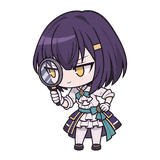
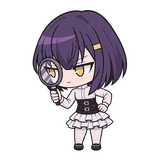
fix(art): 재조사 그웬 — 코트 자락·허리띠 제거, 검은 코르셋

diff --git a/tools/gwen_art/README.md b/tools/gwen_art/README.md
@@ -2,13 +2,13 @@
 
 ## 재조사 사무실용 — 코트 벗은 SD 3종
 
-2026-11-23 내장 image_gen으로 `recon_look`(왼쪽 돋보기 관찰), `recon_pin`(왼쪽 위 사진 고정), `recon_nod`(팔짱·자신만만한 끄덕임) 정지 자세를 만들었음. 기존 investigate·files·report·ready 512px 그림을 직접 참조했음. 군복 코트만 벗고 흰 블라우스의 긴소매를 팔꿈치까지 걷었으며 청록 리본·금색 머리핀·남색 단발·금색 눈·기존 치마·스타킹·신발·장갑을 유지했음. 전연령·문자 없음·실제 투명 RGBA임.
+2026-11-23 내장 image_gen으로 `recon_look`(왼쪽 돋보기 관찰), `recon_pin`(왼쪽 위 사진 고정), `recon_nod`(팔짱·자신만만한 끄덕임) 정지 자세를 만들었음. PM 검수에 따라 세 원본을 국소 편집해 치마 옆·뒤의 파란 코트 자락과 금색/검은 줄, 청록 허리띠·큰 리본, 가슴 타이·자보를 제거했음. 장식 없는 흰 스탠드 칼라·손목 커프스가 있는 긴소매·맨손·흰 프릴 치마에, 은색 사각 버클 가로 벨트 두 줄이 달린 무광 검은 언더버스트 코르셋을 맞췄음. 얼굴·머리·자세·소품·스타킹·신발은 유지했음. 전연령·문자 없음·실제 투명 RGBA임.
 
-생성은 look 2회(시선 방향 보정 1회), pin·nod 각 1회로 총 4회였음. 원본은 모두 **1254×1254**, 확대 없이 저장소 밖 `recon/gwen/`에 보관했음. 전체 호출 프롬프트·참조·선정 결과는 [prompts_recon.json](prompts_recon.json)에 있음.
+최초 생성은 look 2회(시선 방향 보정 1회), pin·nod 각 1회로 총 4회였음. 이번 국소 편집은 각 1회, 총 3회·재시도 0회임. 이전 원본은 저장소 밖 `recon/gwen/recon_*_v1.png`, 수정본은 같은 폴더의 `recon_*.png`에 확대 없이 보관했음. 전체 호출 프롬프트·참조·선정 결과와 수정 이력은 [prompts_recon.json](prompts_recon.json)에 있음.
 
 `python -B -X utf8 tools/gwen_art/build_recon.py --import-dir <원본 PNG 폴더>`로 최초 가져오고, 이후에는 옵션 없이 커밋된 512px 파일에서 재현함. ready와 같은 알파 정리(10 미만 0·245 초과 255), 가장자리 중간 알파 보존, 450px 이내 축소·512px 캔버스·발끝 y482·192색 본체/64색 가장자리 팔레트를 썼음. 160px PNG는 기존 정지본 방식으로 색을 줄이고 알파를 보존했음.
 
-출력은 `assets/ui_icons/gwen/recon_look_512.png`·`recon_look.png`, `recon_pin_512.png`·`recon_pin.png`, `recon_nod_512.png`·`recon_nod.png` 6개임. 각각 512×512와 160×160, 합계 257,023바이트(160px 3개 58,643바이트)이며 파일당 80,000바이트 안에 있음. 빌더에서 크기·투명도·가장자리·여백·기존 전체 용량 한도를 검사함. **화면 연결·애니메이션은 추가하지 않았음.**
+출력은 `assets/ui_icons/gwen/recon_look_512.png`·`recon_look.png`, `recon_pin_512.png`·`recon_pin.png`, `recon_nod_512.png`·`recon_nod.png` 6개임. 각각 512×512와 160×160, 합계 242,826바이트(160px 3개 51,655바이트)이며 파일당 80,000바이트 안에 있음. 빌더에서 크기·투명도·가장자리·여백·기존 전체 용량 한도를 검사함. **화면 연결·애니메이션은 추가하지 않았음.**
 
 보관 폴더의 `recon/with_gwen_office.png`는 사무실 위에 각 동작을 한 번씩 얹은 3행 정지 합성임. `recon/gwen/alpha_style_review.png`에서 기존 investigate와 같은 크기의 선·색·비율, 체커보드 알파와 어두운 배경의 실제 160px 정지본을 검수했음.
 

diff --git a/docs/HISTORY.md b/docs/HISTORY.md
@@ -1,3 +1,10 @@
+## 2026-11-23 — 재조사 그웬 코트 자락·허리띠 제거, 검은 코르셋
+
+- `recon_look`·`recon_pin`·`recon_nod`를 내장 image_gen으로 각 1회 국소 편집했음(총 3회·재시도 0회). 흰 치마 옆·뒤의 파란 코트 자락과 금색/검은 줄, 청록 허리띠·큰 리본·가슴 타이·흰 자보를 제거했음. 장식 없는 흰 스탠드 칼라·손목까지 오는 긴소매·맨손과 은색 사각 버클 가로 벨트 두 줄의 무광 검은 언더버스트 코르셋으로 고쳤음.
+- 얼굴·머리·자세·소품·스타킹·신발·투명 배경을 유지했음. 저장소 밖 `recon/gwen/`의 이전 원본은 `recon_*_v1.png`로 보존했고, 수정 원본도 1254×1254 그대로 보관했음. `build_recon.py`로 512px·160px PNG 6개를 갱신했으며 사무실 3행 합성·알파 비교 시트를 다시 검수했음.
+- 전체 편집 프롬프트·이전/현재 해시·호출 수는 `tools/gwen_art/prompts_recon.json`에 추가했음. 빌더의 크기·알파·여백·용량 검사, 6파일 재빌드 바이트 일치, 프롬프트의 로컬 절대 경로 부재를 확인했음.
+- 강제 탐색·그웬 검사 16개를 순차 실행해 모두 통과했음. 처음 전체 검사와 부분 검사를 겹쳐 실행해 기존 아트 재빌드가 간섭했으며, 실패한 아트 항목은 위 순차 실행에서 모두 통과했음. 검사 후 이번 수정 외 기존 아트의 변경이 없음을 확인했음.
+
 ## 2026-11-23 — 강제 탐색 배경: 등신대 그웬 결·중경 원근
 
 - SD 배경 기준을 등신대 뒷모습 그웬으로 바꿔 내장 image_gen 1회로 다시 만들었음. 선·명암·그라데이션 하늘·고리 발광을 맞추고 의자·책상·곰인형을 작게, 안쪽으로 보냈음. 직전 원본은 `lavistar_ruin_bg_v3.png`로 보존했음.

diff --git a/HANDOFF.md b/HANDOFF.md
@@ -4,7 +4,7 @@
 
 ## 현재 상태
 
-- **재조사용 SD 그웬 준비**: 코트 벗은 흰 블라우스 차림의 `recon_look`·`recon_pin`·`recon_nod`를 512px PNG·160px 정지본 6개로 만들었음. 배경 합성·알파를 검수했고 화면 연결은 하지 않았음. 재현 빌더·전체 프롬프트·용량은 `tools/gwen_art/README.md`의 재조사 절을 참조함.
+- **재조사용 SD 그웬 준비**: `recon_look`·`recon_pin`·`recon_nod`의 코트 자락·청록 띠/리본·타이/자보를 제거하고, 흰 스탠드 칼라·긴소매·맨손·은색 사각 버클 두 줄의 검은 언더버스트 코르셋으로 고쳤음. 512px PNG·160px 정지본 6개의 배경 합성·알파를 검수했고 화면 연결은 하지 않았음. 재현 빌더·전체 프롬프트·용량은 `tools/gwen_art/README.md`의 재조사 절을 참조함.
 
 - **재조사 배경 준비**: PM 검수에 따라 그웬 SD 화풍의 셀 선화로 바꾸고 장식·광택을 줄였음. 단일 스탠드 광원·회수 증거 4자료·사진을 떼어 낸 흔적 4곳을 넣었음. 원본은 2172×724 그대로 보관했고 비교·그웬 합성을 검수했음. 현재 좌표·크롭 한계는 `docs/forced_art.md`, 호출 기록은 `tools/recon_art_prompts.json`이 정본임. 원본·미리보기는 `recon` 보관 폴더에 있으며 배포용 자산·화면 연결은 미구현임.
 
